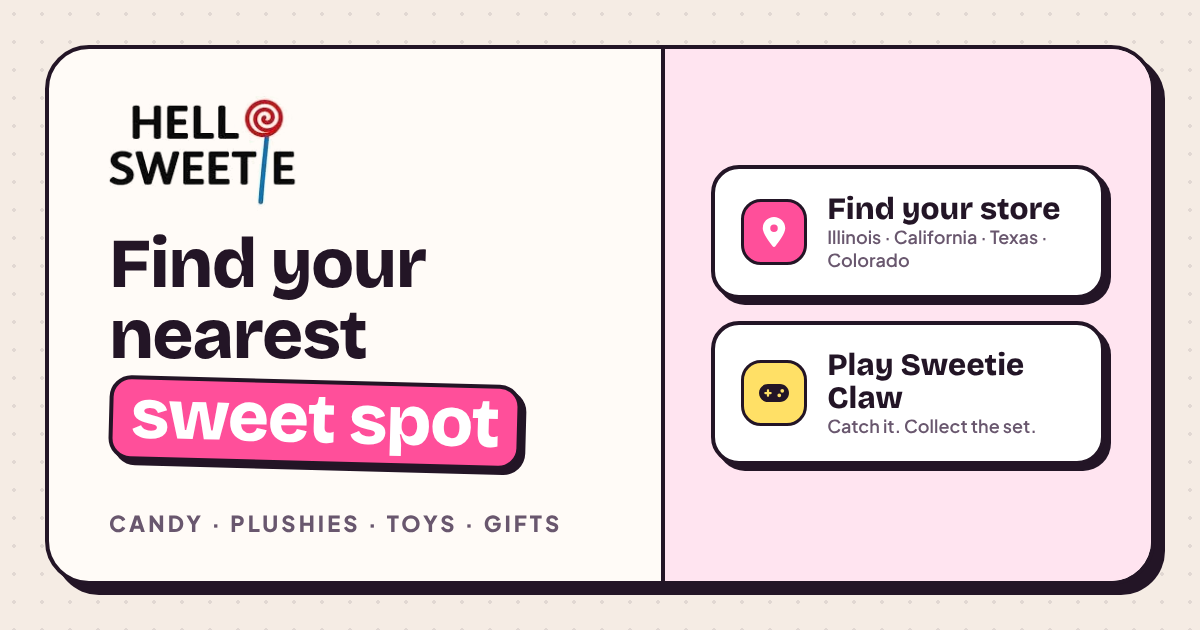
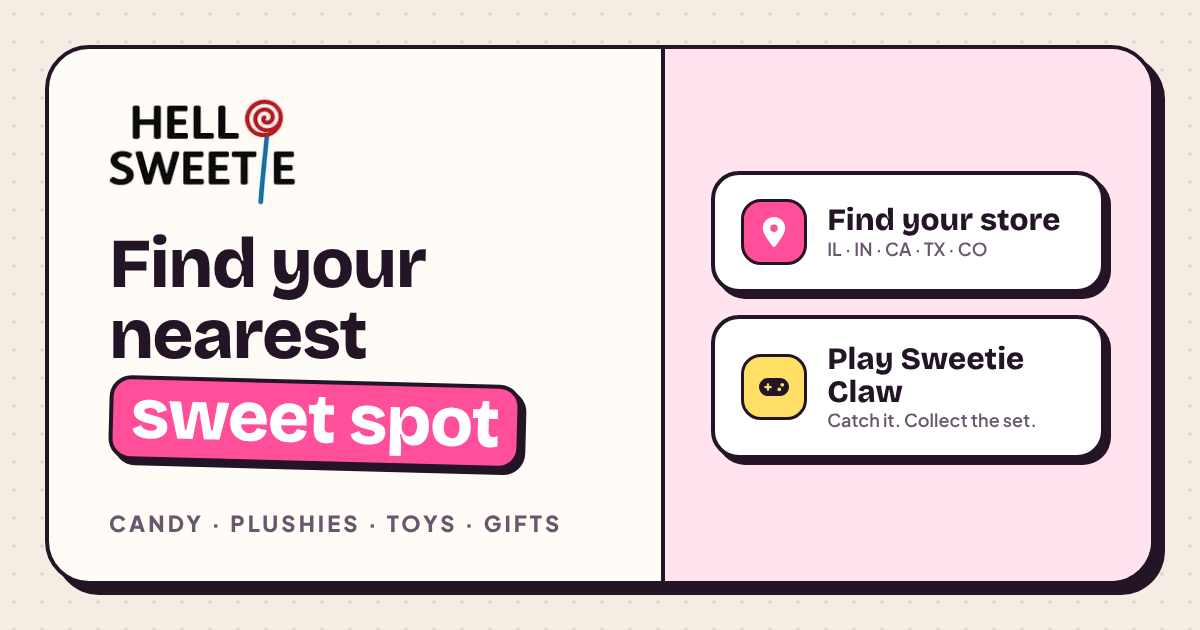
Add Southlake Mall and Greenwood Park Mall (Indiana)

Changed region(s): [[0.5858, 0.4222, 0.925, 0.6937], [0.5858, 0.2413, 0.925, 0.4222], [0.5858, 0.6937, 0.925, 0.754]]

diff --git a/index.html b/index.html
@@ -4,7 +4,7 @@
     <meta charset="UTF-8">
     <meta name="viewport" content="width=device-width, initial-scale=1.0">
     <title>Hello Sweetie USA | Find Your Store &amp; Play Sweetie Claw</title>
-    <meta name="description" content="Find your nearest Hello Sweetie store and play Sweetie Claw. Candy, plushies, toys and gifts in malls across Illinois, California, Texas and Colorado.">
+    <meta name="description" content="Find your nearest Hello Sweetie store and play Sweetie Claw. Candy, plushies, toys and gifts in malls across Illinois, Indiana, California, Texas and Colorado.">
     <meta name="theme-color" content="#FF4F9A">
     <meta name="color-scheme" content="light only">
     <link rel="canonical" href="https://hellosweetieusa.navynightcreative.com/">
@@ -254,7 +254,7 @@
                         <span class="w-2.5 h-2.5 rounded-full bg-boutique-pink border border-boutique-ink"></span>
                         <span class="font-display font-bold text-xs uppercase tracking-wider text-boutique-ink">Mall Navigator • Tap a Pin</span>
                     </div>
-                    <span class="text-[11px] font-bold text-boutique-muted" id="mapActiveLabel">IL · CA · TX · CO</span>
+                    <span class="text-[11px] font-bold text-boutique-muted" id="mapActiveLabel">IL · IN · CA · TX · CO</span>
                 </div>
 
                 <div class="relative h-[168px] bg-[#EEF9F4] overflow-hidden select-none">
@@ -287,7 +287,7 @@
                         <span class="text-xs">🇺🇸</span>
                         <span class="text-left">
                             <span class="block text-[11px] font-extrabold leading-none text-boutique-ink">Other States</span>
-                            <span class="block text-[9px] font-semibold text-boutique-muted mt-0.5">CA • TX • CO</span>
+                            <span class="block text-[9px] font-semibold text-boutique-muted mt-0.5">IN • CA • TX • CO</span>
                         </span>
                     </button>
                 </div>
@@ -557,6 +557,22 @@
                 notes: ['This store is not on the Instagram store list yet; we only know it from the Drive photos. Ask whether it is open and what the unit number is.', 'Store hours, phone number and where the store is inside the mall are still needed.']
             },
             {
+                id: 'southlake', mallName: 'Southlake Mall', city: 'Merrillville', state: 'IN', stateName: 'Indiana',
+                regionGroup: 'other-states', isFeatured: false, badge: 'INDIANA', badgeBg: 'bg-boutique-skySoft',
+                street: '2109 Southlake Mall', unit: null, unitConfirmed: false, zip: '46410',
+                hours: null, hoursConfirmed: false, wayfinding: null, phone: null,
+                lat: 41.4710, lng: -87.3120,
+                notes: ['Mall address only. Unit number, hours, phone and in-mall location still needed.']
+            },
+            {
+                id: 'greenwood-park', mallName: 'Greenwood Park Mall', city: 'Greenwood', state: 'IN', stateName: 'Indiana',
+                regionGroup: 'other-states', isFeatured: false, badge: 'INDIANA', badgeBg: 'bg-boutique-skySoft',
+                street: '1251 US Highway 31 N', unit: null, unitConfirmed: false, zip: '46142',
+                hours: null, hoursConfirmed: false, wayfinding: null, phone: null,
+                lat: 39.6329, lng: -86.1205,
+                notes: ['Mall address only. Unit number, hours, phone and in-mall location still needed.', 'The mall directory lists a store called "Hello Candy", not Hello Sweetie. Ask whether this is the same store.']
+            },
+            {
                 id: 'north-county', mallName: 'North County Mall', city: 'Escondido', state: 'CA', stateName: 'California',
                 regionGroup: 'other-states', isFeatured: false, badge: 'CALIFORNIA', badgeBg: 'bg-boutique-skySoft',
                 street: '272 E Via Rancho Pkwy', unit: null, unitConfirmed: false, zip: '92025',
@@ -587,14 +603,6 @@
                 hours: null, hoursConfirmed: false, wayfinding: null, phone: null,
                 lat: 39.7107, lng: -104.8125,
                 notes: ['Mall address only. Unit number, hours, phone and in-mall location still needed.']
-            },
-            {
-                id: 'indiana', mallName: 'Indiana store', city: 'City to confirm', state: 'IN', stateName: 'Indiana',
-                regionGroup: 'other-states', isFeatured: false, badge: 'INDIANA', badgeBg: 'bg-boutique-skySoft',
-                street: '', unit: null, unitConfirmed: false, zip: '',
-                hours: null, hoursConfirmed: false, wayfinding: null, phone: null,
-                lat: null, lng: null, hidden: true,
-                notes: ['The Instagram bio lists Indiana, but no post names this store. Ask for the mall, address and hours. It stays hidden for customers until then.']
             }
         ];
 

diff --git a/README.md b/README.md
@@ -41,7 +41,7 @@ Sondaki etiket, GA4'te ziyaretin bio'dan geldiğini ayırmak için.
 | Dükkan numarası | `unit: 'F11'` yaz, `unitConfirmed: true` yap |
 | Telefon | `phone: '(708) 000-0000'` yaz. "Call" butonu kendiliğinden çıkar |
 | AVM içindeki yer | `wayfinding: 'Upper level, next to the food court'` gibi yaz |
-| Indiana mağazası | Bilgileri doldur, `lat` / `lng` ekle, `hidden: true` satırını sil |
+| Yeni mağaza | Listeye yeni bir blok ekle (adres, `lat` / `lng`, bölge). Henüz müşteriye gösterilmeyecekse `hidden: true` ekle |
 | Onaylanan bilgi | O bilgiyle ilgili `notes` satırını sil |
 
 Onaylanmamış bilgi müşteriye hiç görünmez. Adresin sonuna `#review` eklenince tüm "To confirm" notları görünür; işletmeye bilgi onaylatırken bu link gönderilir.
